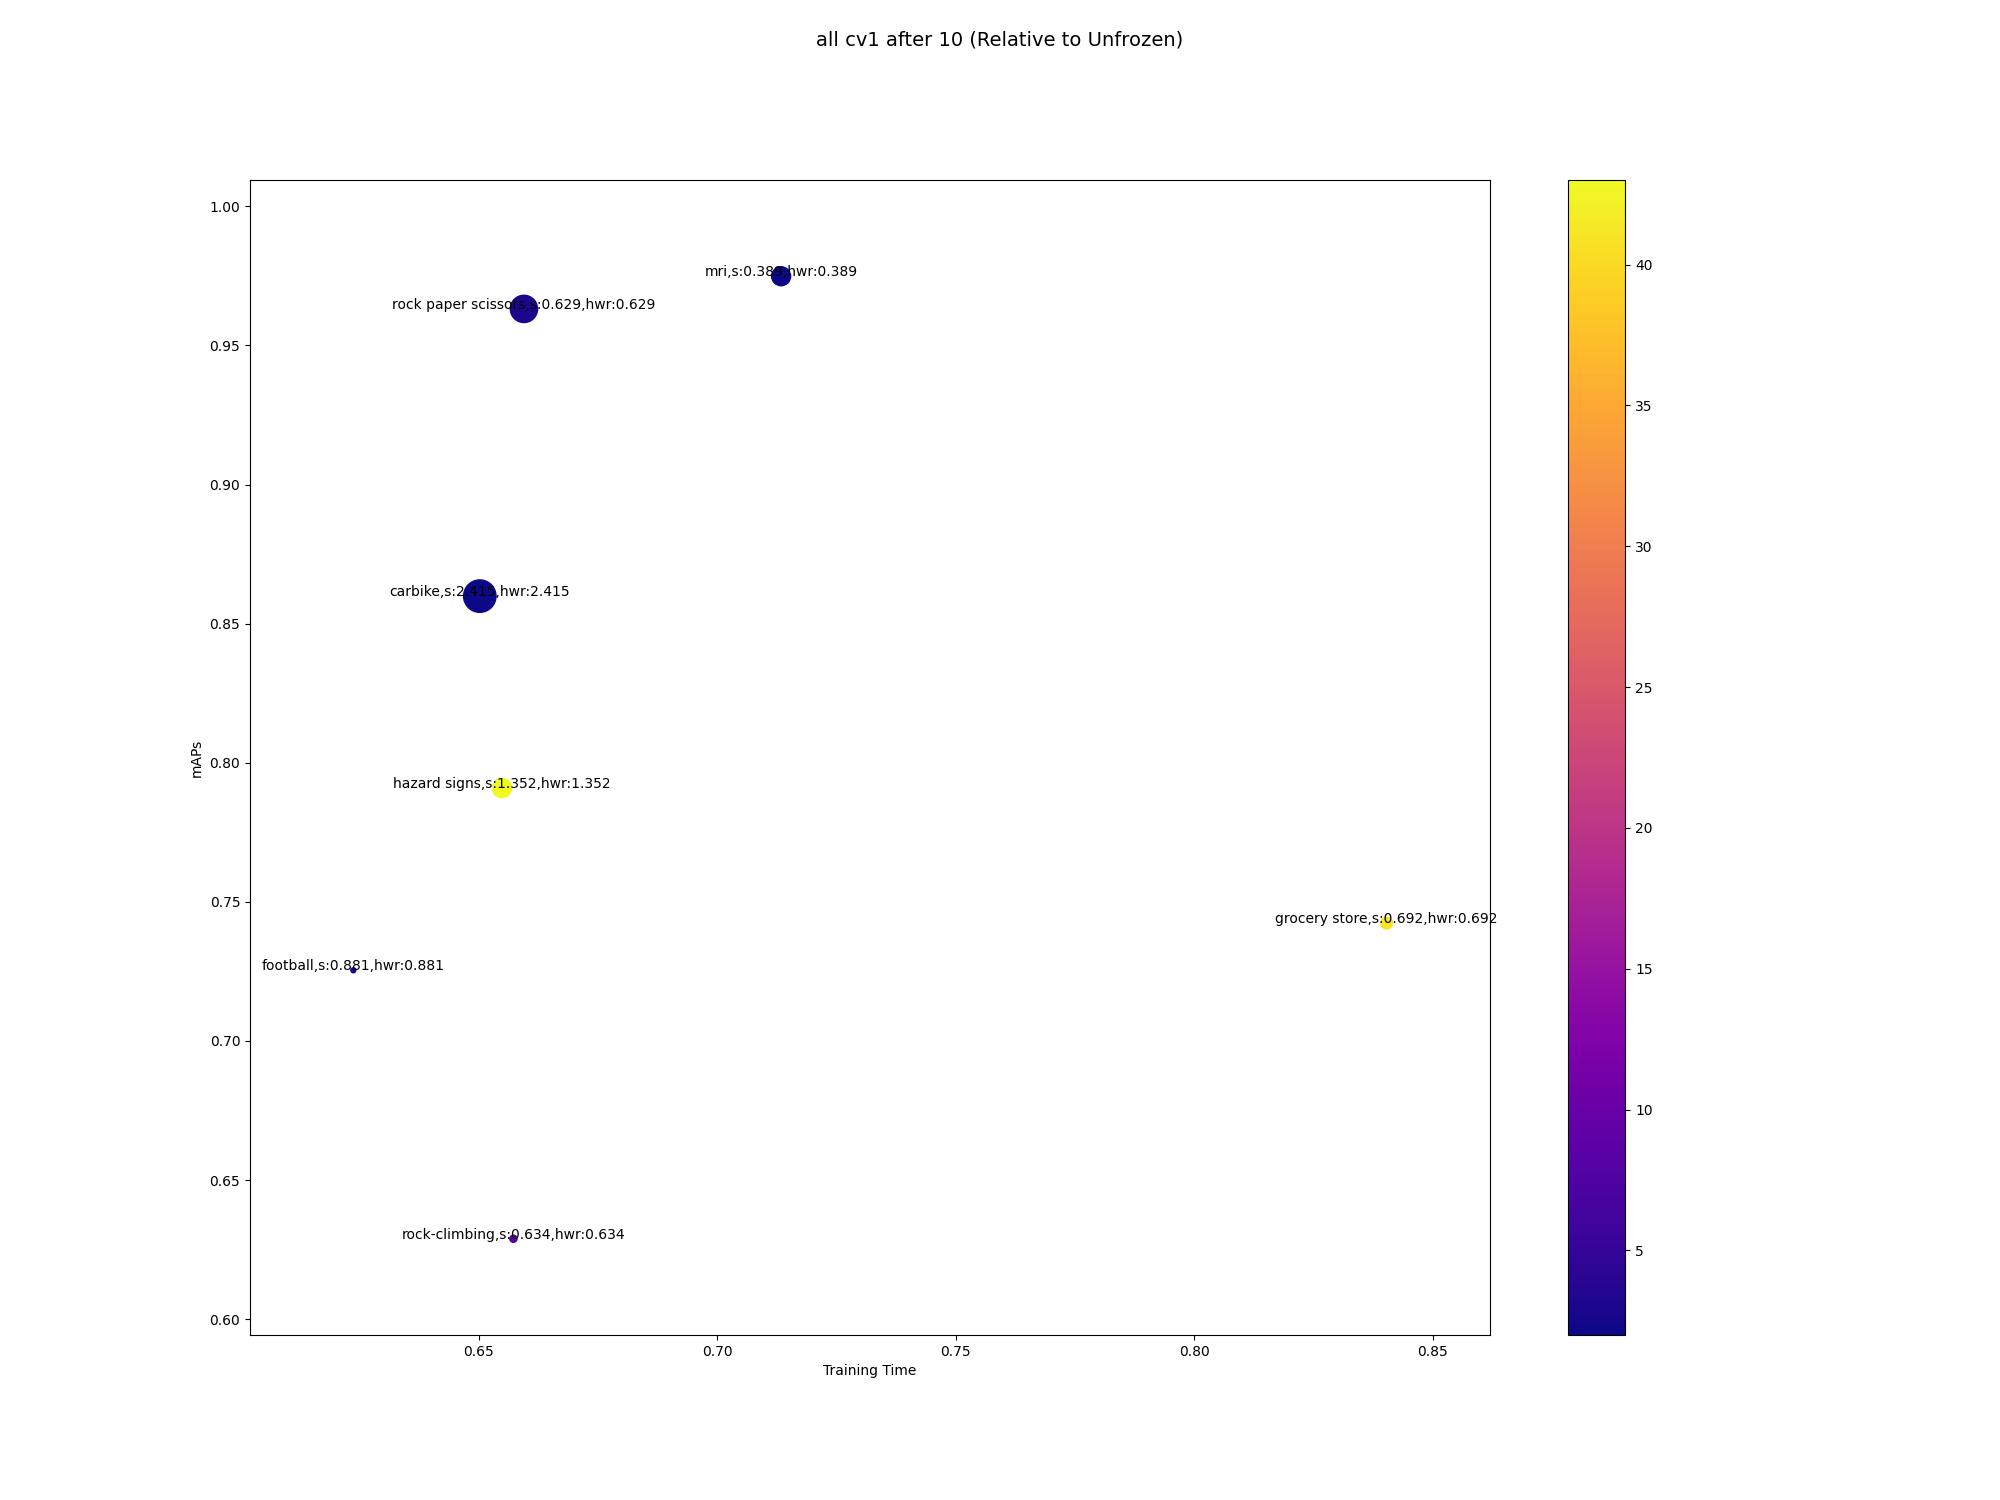
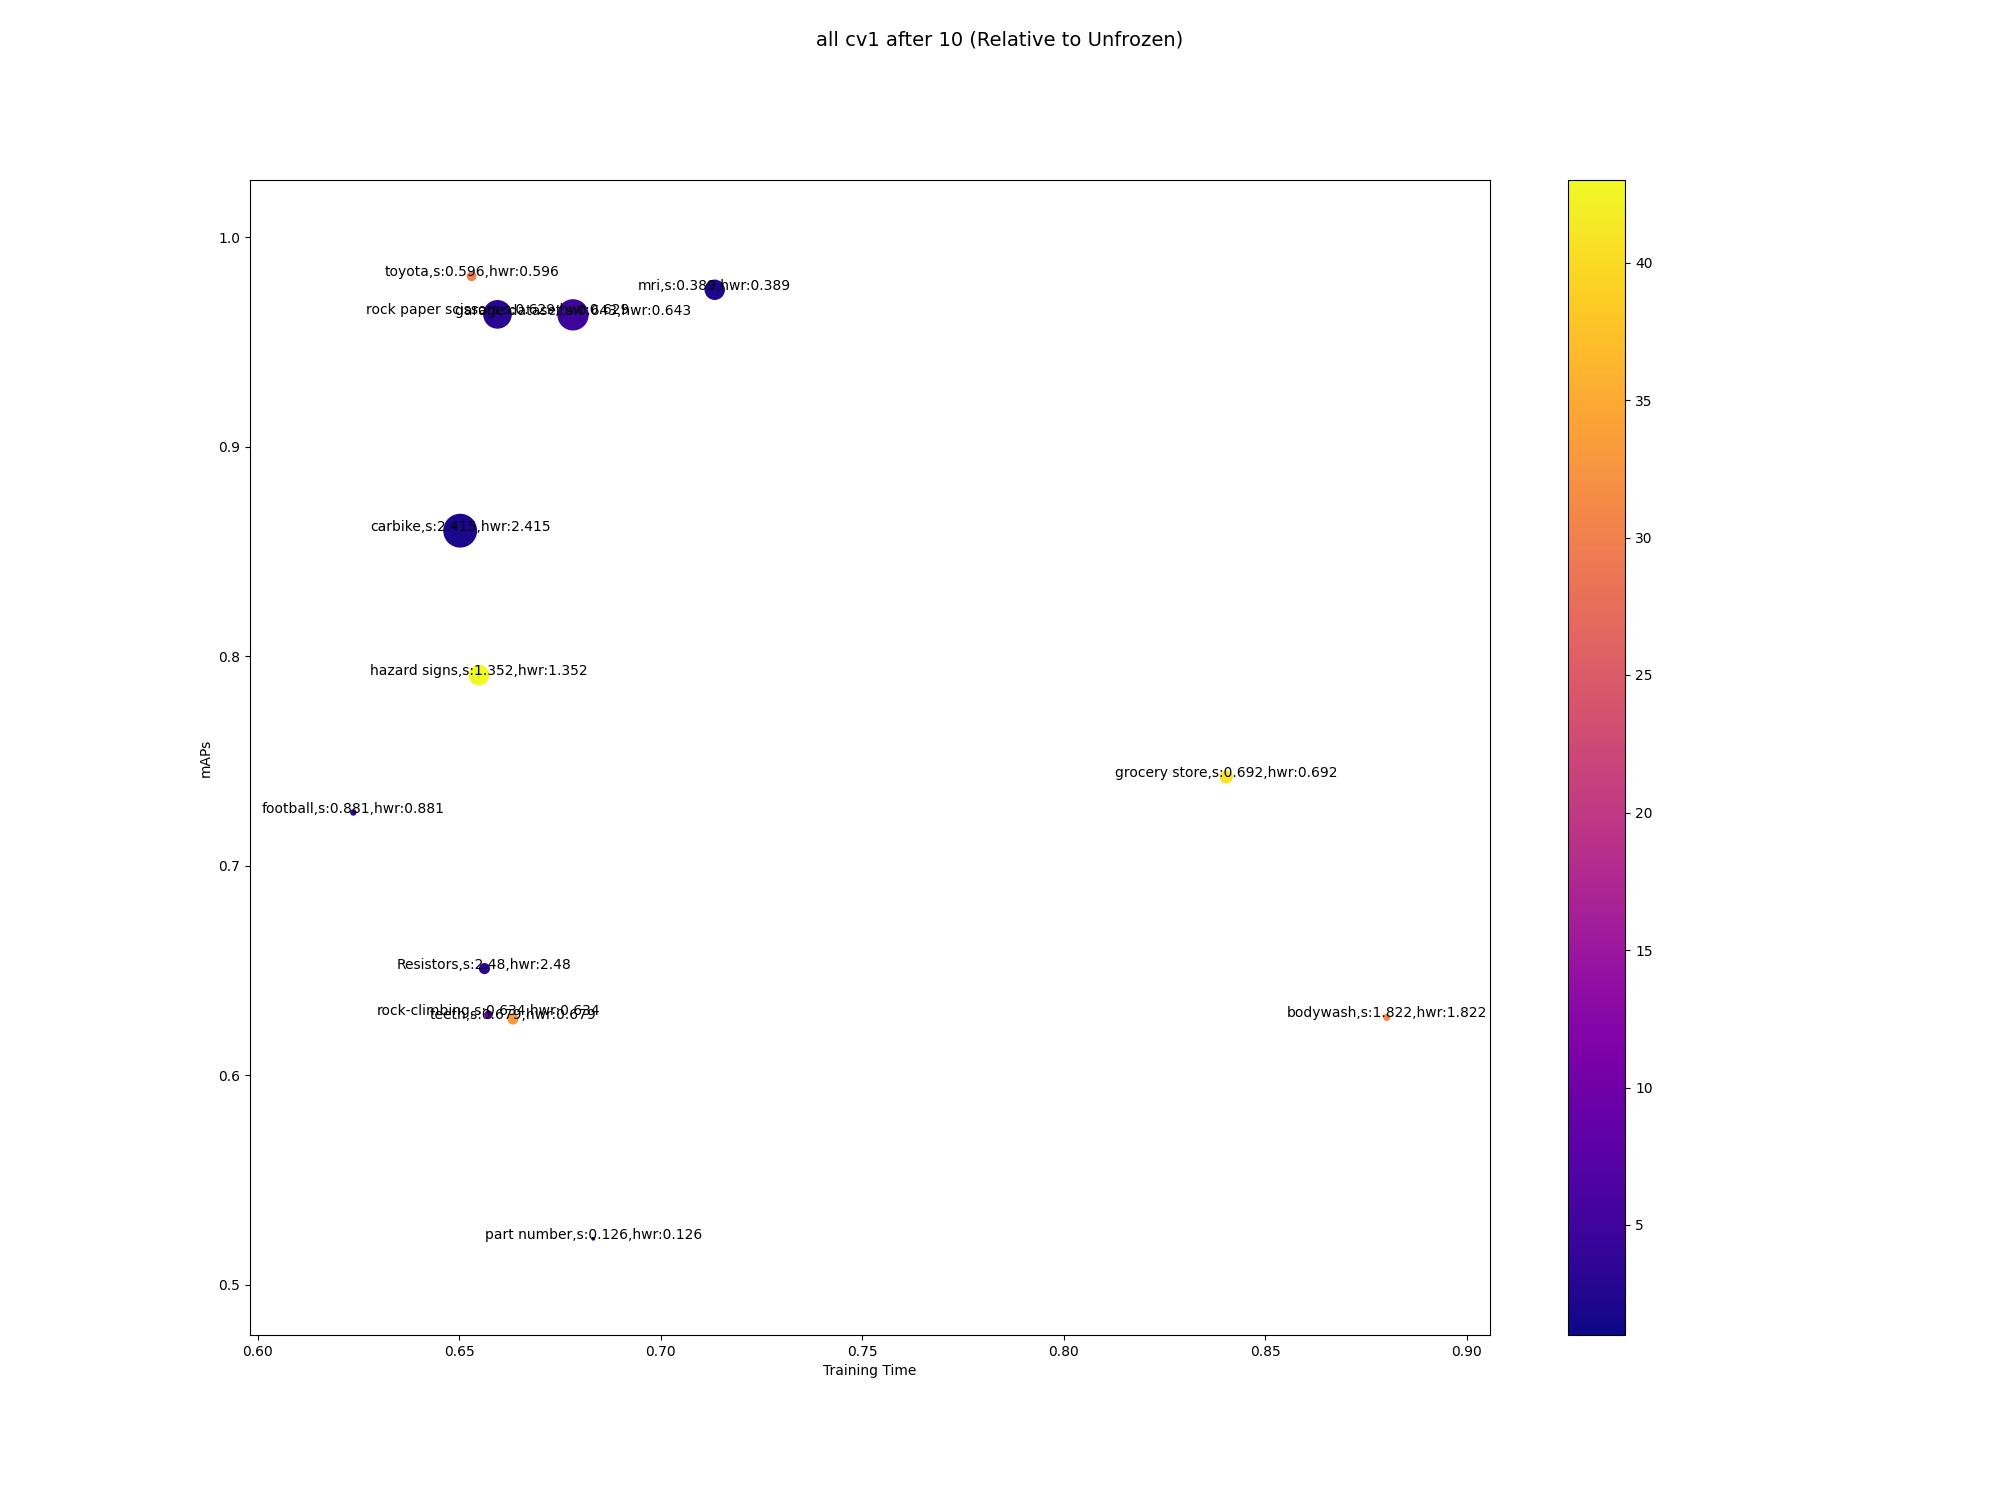
combined results

diff --git a/readJSONData.py b/readJSONData.py
@@ -49,7 +49,7 @@ d_ig = ['all cv2 after 10 + cv3',
 'all m after 10',
 'all m after 10 + cv3']
 
-d_datasetIgnore = ['toyota','garage dataset']
+d_datasetIgnore = ['toyota','garage dataset','rock-climbing']
 d_save_dir = "testing runs/8-5 separate branch combined results"
 
 def combineResults(save_dir=d_save_dir,
@@ -123,15 +123,15 @@ def combineResults(save_dir=d_save_dir,
         if(len(list(SmAPs.keys())) > len(keys)):
             keys = list(SmAPs.keys())
 
-        try:
-            saveData.plotDataBar(SmAPs,StrainTime, file="dataset/Bar ",name=f"{i} : NC({readyaml.returnClassCount(dataset_home_dir + i + '/data.yaml')})")
-            saveData.plotDataScatter(SmAPs,StrainTime, file="dataset/Scatter ",name=f"{i} : NC({readyaml.returnClassCount(dataset_home_dir + i + '/data.yaml')})")
-            saveData.plotDataScatter(SmAPs,StrainTime, relative=True,origin=True,file="dataset/Relative Scatter ",name=f"{i} : NC({readyaml.returnClassCount(dataset_home_dir + i + '/data.yaml')})")
-            saveData.plotDataScatter(SmAPs,StrainTime, relative=True,origin=False,file="dataset/Relative Scatter N-O ",name=f"{i} : NC({readyaml.returnClassCount(dataset_home_dir + i + '/data.yaml')})")
-            saveData.plotDataScatter(SmAPs,StrainTime, relative=False,origin=True,file="dataset/Scatter O ",name=f"{i} : NC({readyaml.returnClassCount(dataset_home_dir + i + '/data.yaml')})")
-            saveData.plotDataCombined(SmAPs,StrainTime, file="dataset/Combined ",name=f"{i} : NC({readyaml.returnClassCount(dataset_home_dir + i + '/data.yaml')})")
-        except Exception as e:
-            print(f"{colors.bcolors.FAIL}{e}{colors.bcolors.ENDC}")
+        # try:
+        #     saveData.plotDataBar(SmAPs,StrainTime, file="dataset/Bar ",name=f"{i} : NC({readyaml.returnClassCount(dataset_home_dir + i + '/data.yaml')})")
+        #     saveData.plotDataScatter(SmAPs,StrainTime, file="dataset/Scatter ",name=f"{i} : NC({readyaml.returnClassCount(dataset_home_dir + i + '/data.yaml')})")
+        #     saveData.plotDataScatter(SmAPs,StrainTime, relative=True,origin=True,file="dataset/Relative Scatter ",name=f"{i} : NC({readyaml.returnClassCount(dataset_home_dir + i + '/data.yaml')})")
+        #     saveData.plotDataScatter(SmAPs,StrainTime, relative=True,origin=False,file="dataset/Relative Scatter N-O ",name=f"{i} : NC({readyaml.returnClassCount(dataset_home_dir + i + '/data.yaml')})")
+        #     saveData.plotDataScatter(SmAPs,StrainTime, relative=False,origin=True,file="dataset/Scatter O ",name=f"{i} : NC({readyaml.returnClassCount(dataset_home_dir + i + '/data.yaml')})")
+        #     saveData.plotDataCombined(SmAPs,StrainTime, file="dataset/Combined ",name=f"{i} : NC({readyaml.returnClassCount(dataset_home_dir + i + '/data.yaml')})")
+        # except Exception as e:
+        #     print(f"{colors.bcolors.FAIL}{e}{colors.bcolors.ENDC}")
 
     NmAP = {key:{k:allmAP[k][key] for k in allmAP if key in allmAP[k]} for key in keys}
     NTrainT = {key:{k:allTT[k][key] for k in allTT if key in allTT[k]} for key in keys}
@@ -142,7 +142,7 @@ def combineResults(save_dir=d_save_dir,
 
 
 
-    saveData.plotDataScatterByGradient(NmAP,NTrainT,file="layer/Relative ")
+    #saveData.plotDataScatterByGradient(NmAP,NTrainT,file="layer/Relative ")
     saveData.plotDataLineByGradientTotal(NmAP,NTrainT,file="Relative Class ",datasetAttribute="classes", dontIgnore = ig,ignoreDataset=datasetIgnore)
     saveData.plotDataLineByGradientTotal(NmAP,NTrainT,file="Relative Ratio ",datasetAttribute="ratio", dontIgnore = ig,ignoreDataset=datasetIgnore)
     saveData.plotDataLineByGradientTotal(NmAP,NTrainT,file="Relative Size ",datasetAttribute="size",dontIgnore=ig,ignoreDataset=datasetIgnore)

diff --git a/saveData.py b/saveData.py
@@ -7,6 +7,7 @@ import freezeDataLookup
 import readyaml
 import statistics
 from datetime import datetime
+import numpy as np
 
 def initialize(sd, keepSubs = True, keepModels = True):
     global save_dir
@@ -312,8 +313,8 @@ def plotDataLineByGradientTotal(mAPs, trainingTimes, name="",file="", unfrozenKe
     annotations = {}
     averages = {}
 
-    for grad in keys:
-        datasets = [x for x in list(mAPs[grad].keys()) if x not in ignoreDataset]
+    for i, grad in enumerate(keys):
+        datasets = [x for x in list(mAPs[grad].keys())]
         xVals = []
         yVals = []
         for dataset in datasets:
@@ -338,11 +339,23 @@ def plotDataLineByGradientTotal(mAPs, trainingTimes, name="",file="", unfrozenKe
         SxVals = sorted(xVals)
         averages[grad]=statistics.mean(SyVals)
         
-        plt.plot(SxVals,SyVals)
+        NxVals = np.array(SxVals)
+        NyVals = np.array(SyVals)
+
+        z=np.polyfit(NxVals,NyVals,1)
+        p=np.poly1d(z)
+
+        Cmap=cm.get_cmap('hsv',len(keys))
 
 
-    for key,val in annotations.items():
-        plt.annotate(key, (val, 0.5),ha="center",fontsize=10,rotation=90)
+        x = np.linspace(SxVals[0],SxVals[-1],5000)
+
+        plt.scatter(SxVals,SyVals,c=Cmap(i))
+        plt.plot(x,p(x),linestyle='dashed',c=Cmap(i))
+
+
+    # for key,val in annotations.items():
+    #     plt.annotate(key, (val, 0.5),ha="center",fontsize=10,rotation=90)
 
     if(datasetAttribute == "size"):
         plt.xlabel("Average Size")
